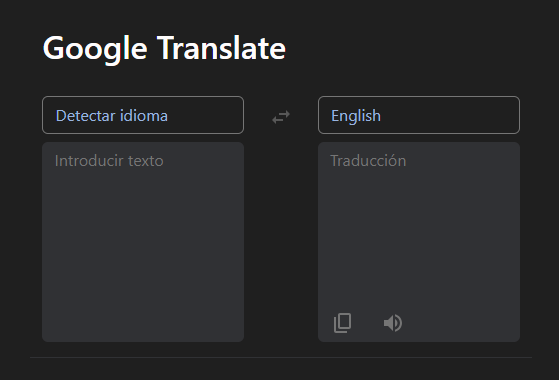
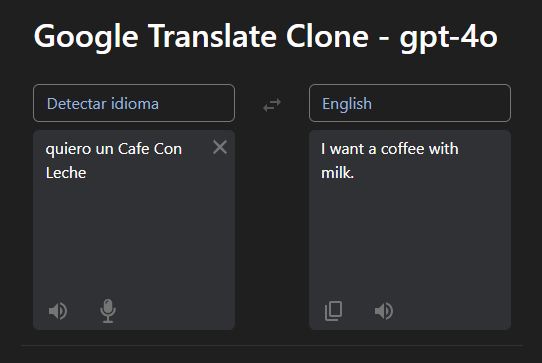
Readme

diff --git a/src/App.tsx b/src/App.tsx
@@ -102,7 +102,7 @@ function App() {
 
   return (
     <Container fluid>
-      <h2>Google Translate</h2>
+      <h2>Google Translate Clone - gpt-4o</h2>
 
       <Row className="Row">
         <Col>

diff --git a/README.md b/README.md
@@ -6,10 +6,11 @@ This project is a React-based translation application that allows users to selec
 ## Features
 
 - Select source and target languages.
-- Real-time translation of input text.
+- Real-time translation of input text and voice.
 - Swap source and target languages.
 - Copy translation to the clipboard.
-- Read translation aloud.
+- Read input and output messages aloud.
+- Microphone to detect voice and transcript it
 - Button to clear the input text.
 
 ## Technologies Used
@@ -65,7 +66,7 @@ This will open the application in your browser at http://localhost:3000.
 
 ## Usage
 
-Simply input text for translation, and get real-time translations in the selected language. You can select the input language or use the auto-detect mode
+Simply input text for translation, typing or by voice, and get real-time translations in the selected language. You can select the input language or use the auto-detect mode
 
 ![Home Screen](public/Usage1.png)
 
@@ -79,6 +80,15 @@ The clear text button appears only when there is text to clear and is positioned
 The read-aloud button reads the translation using the SpeechSynthesis API.
 #### Copy to Clipboard
 The copy to clipboard button copies the translation to the system clipboard.
+### Voice Input
+The voice input functionality enables you to dictate text using your voice. Here's how it works:
+- **Start Voice Input**: Click the microphone icon to begin voice input.
+- **Speech Recognition**: The app uses the Web Speech API to convert your spoken words into text.
+- **Error Handling**: If there are issues with the speech recognition, appropriate error messages will be displayed. Common errors include:
+  - **Aborted**: The speech recognition process was aborted.
+  - **No Speech**: No speech was detected.
+  - **Audio Capture**: No audio capture device was found.
+  - **Not Allowed**: Permission to use the microphone was denied.
 
 ## Contributing
 Contributions are welcome! If you would like to contribute to this project, please follow these steps:
